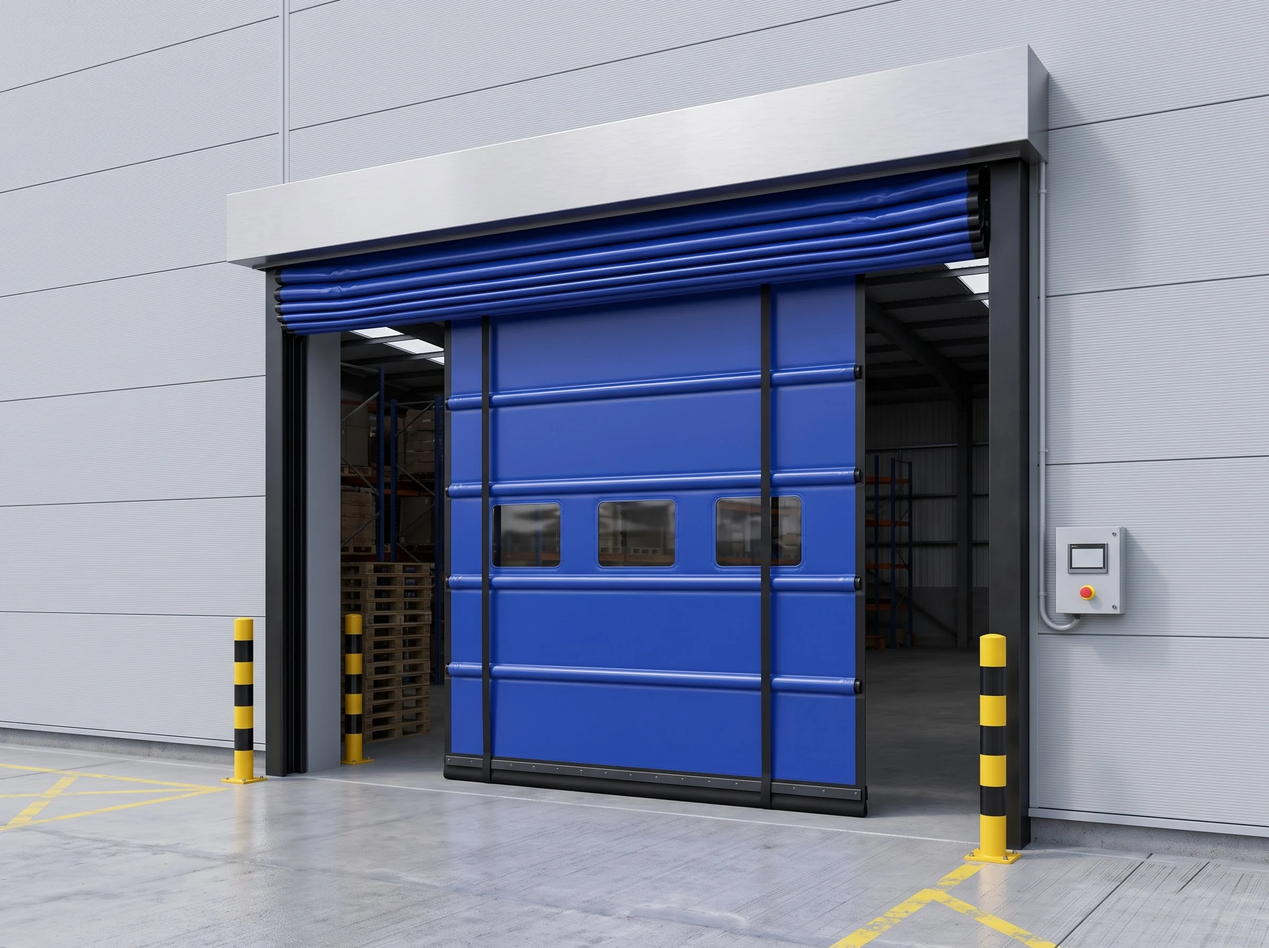
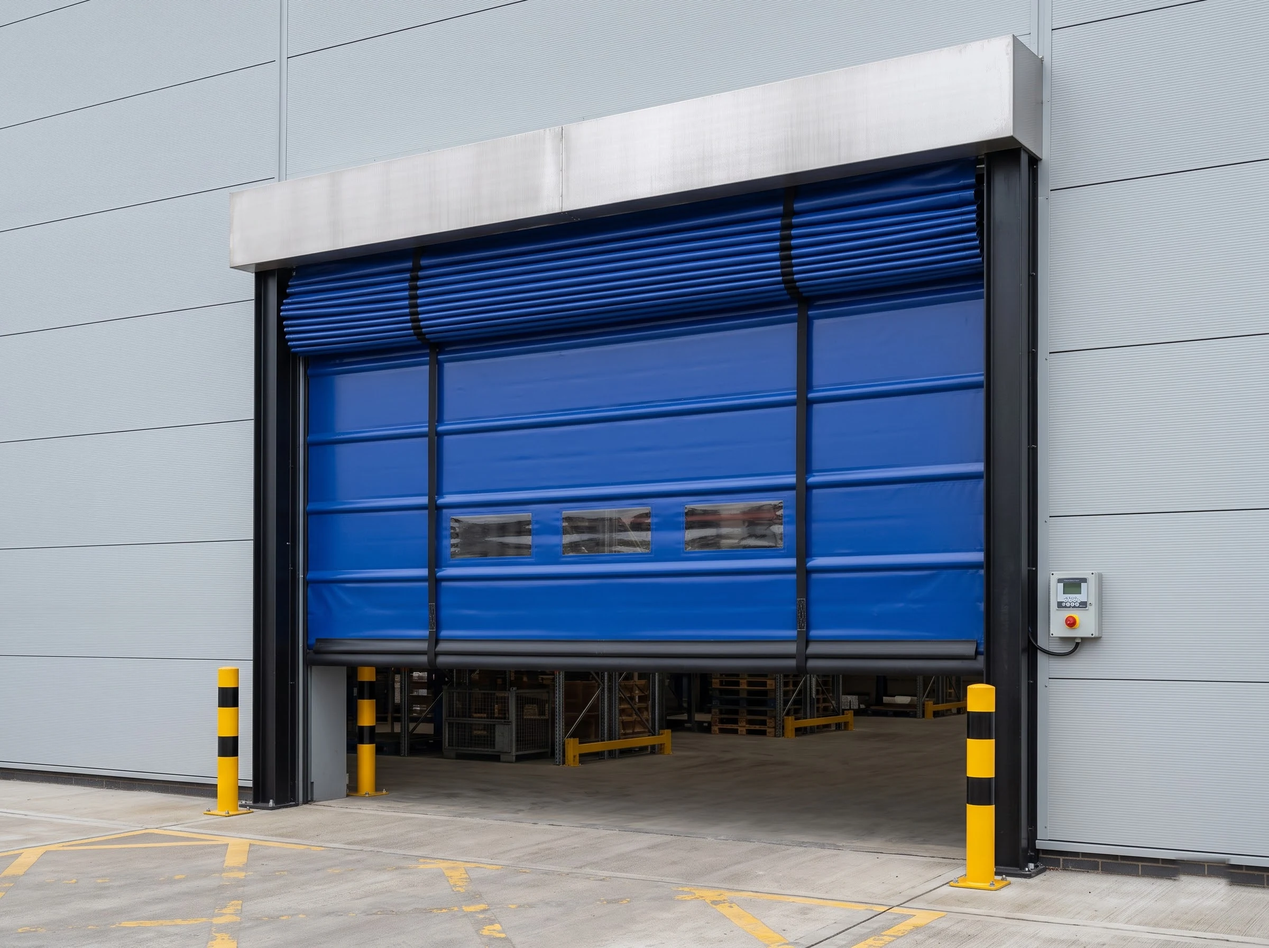
High Speed Fold-Up Door: regenerated hero with full-width stacked folds

diff --git a/web/src/data/images.ts b/web/src/data/images.ts
@@ -2048,7 +2048,7 @@ const list: ImageRef[] = [
     "high-speed-doors",
     "high-speed-fold-up-door",
     "hero",
-    "A royal-blue high speed fold-up door caught mid-travel on the loading opening of a light-grey clad factory: the lower curtain with its wind-bar ridges, two black lifting straps and a row of three vision windows still hanging between the black guide columns, while the raised part is gathered into horizontal folds stacked beneath the plain stainless hood, with a wall control station and red emergency stop beside the guide and yellow-and-black bollards on the concrete apron",
+    "A royal-blue high speed fold-up door half open on the loading opening of a light-grey clad factory: the lower curtain with its wind-bar ridges, two black lifting straps and a row of three vision windows spanning the full width between the black guide columns, the raised half gathered into a full-width stack of horizontal folds beneath the plain stainless hood, warehouse pallets visible below the bottom bar, a wall control station with red emergency stop beside the guide and yellow-and-black bollards on the concrete apron",
     "High Speed Fold-Up Door — lead image",
     "research/fold-up-door-visual-definition.md",
   ),
